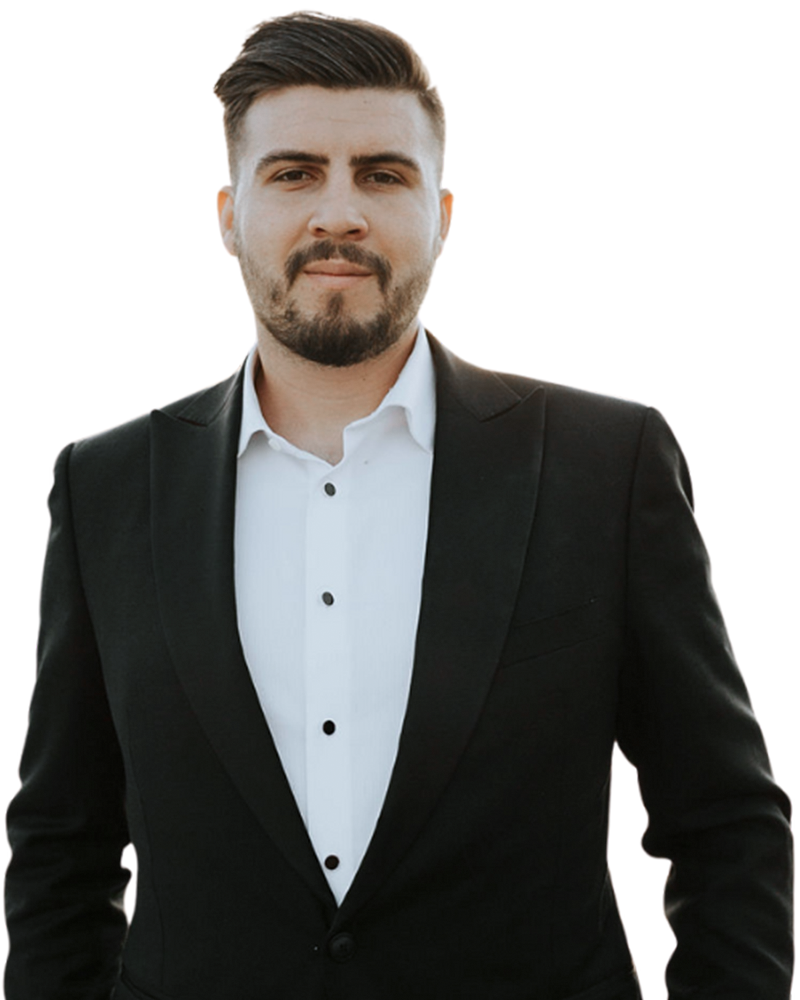
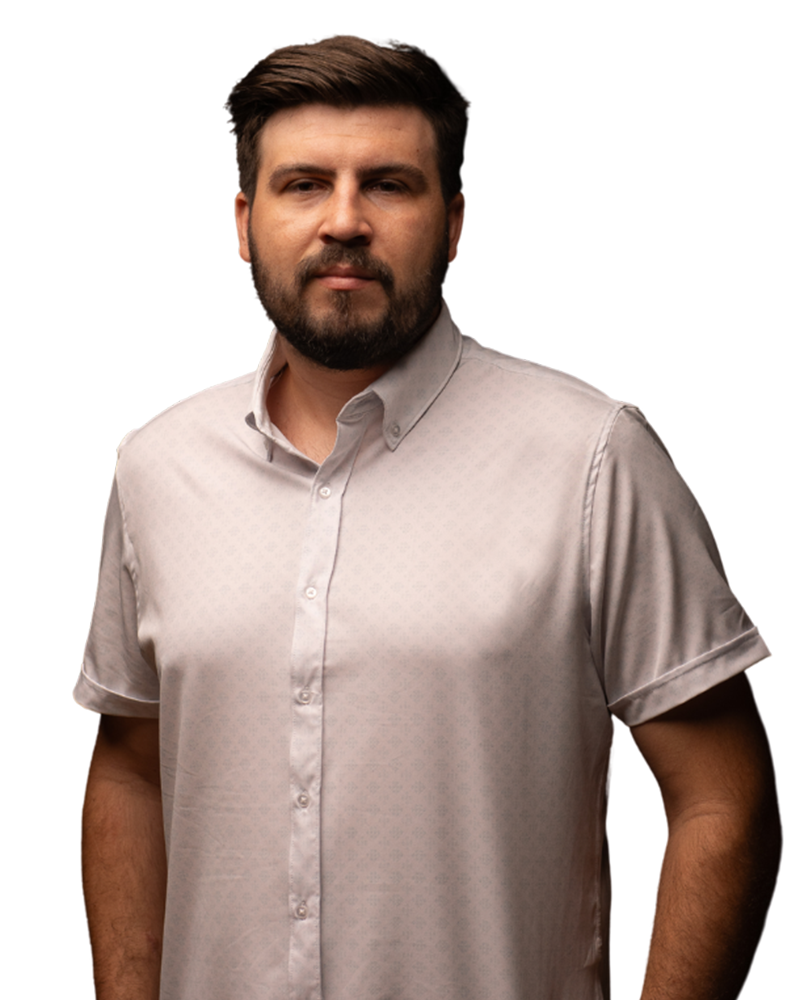
feat: change photo for Adi and Mark, improve padding for team section, change design for personal evanghelism section

diff --git a/src/app/[locale]/(home)/components/team.tsx b/src/app/[locale]/(home)/components/team.tsx
@@ -12,8 +12,8 @@ import Simona from '../../../../../public/img/team/simo.webp'
 import Dana from '../../../../../public/img/team/dana potra.webp'
 import Chris from '../../../../../public/img/team/chris potra.webp'
 import Andrei from '../../../../../public/img/team/andrei bir.webp'
-import AdrianCovaci from '../../../../../public/img/team/adi.webp'
 import AvramSabou from '../../../../../public/img/team/Avram.webp'
+import AdrianCovaci from '../../../../../public/adi.webp'
 
 export default function Team() {
   const t = useTranslations('team')
@@ -111,11 +111,11 @@ export default function Team() {
   }
 
   return (
-    <div className="bg-color-dark p-relative custom-section-1 lazyload bg-cover bg-center px-8">
+    <div className="bg-color-dark p-relative custom-section-1 lazyload bg-cover bg-center px-8 pb-28">
       <div className="container px-2 py-4">
         <div className="row align-items-center">
           <InViewTransition>
-            <h2 className="mb-0 w-fit py-6 text-2xl font-semibold text-gray-50 lg:pl-32 lg:text-4xl">
+            <h2 className="mb-0 w-fit pb-4 pt-6 text-2xl font-semibold text-gray-50 lg:pl-32 lg:text-4xl">
               {t('title-a4c')}
             </h2>
           </InViewTransition>
@@ -127,10 +127,10 @@ export default function Team() {
             >
               <FaAngleLeft className="h-6 w-6" />
             </button>
-            <div className="grid grid-cols-1 gap-3 overflow-hidden py-5 md:grid-cols-2 xl:grid-cols-7">
+            <div className="grid grid-cols-1 gap-3 overflow-hidden px-5 py-3 md:grid-cols-2 xl:grid-cols-7">
               {getVisibleMembers().map((member, idx) => (
                 <InViewTransition damping={50} delay={0.25 * idx} key={idx}>
-                  <div className="group relative mx-2 mt-3 flex flex-col items-center gap-1 overflow-hidden rounded-xl bg-gradient-to-b from-[#090d1a] via-blue-900 to-[#061e35] duration-300 hover:scale-110">
+                  <div className="group relative mt-3 flex flex-col items-center gap-1 overflow-hidden rounded-xl bg-gradient-to-b from-[#090d1a] via-blue-900 to-[#061e35] duration-300 hover:scale-110">
                     <Image
                       alt={member.name}
                       className="w-full pt-3"
@@ -144,7 +144,7 @@ export default function Team() {
                         {member.role}
                       </p>
                     </div>
-                    <div className="absolute bottom-0 left-0 right-0 top-0 translate-y-full transform bg-[#122a80] bg-opacity-90 p-4 text-white transition-transform duration-1000 ease-in-out group-hover:translate-y-0">
+                    <div className="absolute bottom-0 left-0 right-0 top-0 translate-y-full transform rounded-xl bg-[#122a80] bg-opacity-90 p-4 text-white transition-transform duration-1000 ease-in-out group-hover:translate-y-0">
                       <div className="absolute bottom-3">
                         <h3 className="pb-2 text-sm font-bold">
                           {member.name}

diff --git a/src/app/[locale]/(home)/components/personal-evangelism/personal-evangelism.tsx b/src/app/[locale]/(home)/components/personal-evangelism/personal-evangelism.tsx
@@ -8,19 +8,19 @@ export default function PersonalEvangelism() {
   const t = useTranslations('vision')
 
   return (
-    <section className="bg-color-light p-relative z-index-2 mx-auto max-w-6xl rounded-md px-2">
-      <div className="row p-8">
+    <section className="bg-color-light z-index-10 relative mx-auto -mt-16 max-w-6xl rounded-md bg-white px-2 shadow-lg">
+      <div className="row container p-8">
         <InViewTransition>
-          <h1 className="xl:4xl pb-4 text-2xl font-bold md:pb-10 md:text-3xl">
+          <h1 className="xl:4xl pb-4 text-center text-2xl font-bold md:pb-10 md:text-3xl">
             {t('title')}
           </h1>
         </InViewTransition>
-
-        <Images />
-
-        <div className="col-lg-6 flex flex-col justify-center ">
-          <div className="flex max-h-[600px] flex-1 flex-col justify-between !gap-4 md:gap-0 xl:max-h-[400px]">
-            <AccordionSection />
+        <div className="flex md:ml-10">
+          <Images />
+          <div className="col-lg-6 flex flex-col justify-center md:pb-10">
+            <div className="flex max-h-[600px] w-full flex-1 flex-col justify-between !gap-4 md:gap-0 xl:max-h-[400px]">
+              <AccordionSection />
+            </div>
           </div>
         </div>
       </div>

diff --git a/src/app/[locale]/(home)/components/personal-evangelism/accordion-section.tsx b/src/app/[locale]/(home)/components/personal-evangelism/accordion-section.tsx
@@ -50,13 +50,15 @@ const AccordionSection = () => {
     <>
       {accordionItems.map((item, idx) => (
         <InViewTransition damping={25} delay={idx * 0.25} key={idx}>
-          <Accordion
-            description={item.description}
-            expanded={expanded}
-            idx={idx}
-            setExpanded={setExpanded}
-            title={item.title}
-          />
+          <div className="mr-10">
+            <Accordion
+              description={item.description}
+              expanded={expanded}
+              idx={idx}
+              setExpanded={setExpanded}
+              title={item.title}
+            />
+          </div>
         </InViewTransition>
       ))}
     </>

diff --git a/src/app/[locale]/common/accordion.tsx b/src/app/[locale]/common/accordion.tsx
@@ -49,7 +49,7 @@ const Accordion = ({
           {isOpen && (
             <motion.section
               animate="open"
-              className="pl-5 text-sm leading-6 text-slate-600"
+              className=" pl-5 text-sm leading-6 text-slate-600"
               exit="collapsed"
               initial="collapsed"
               transition={{ duration: 0.4, ease: [0.04, 0.62, 0.23, 0.98] }}
